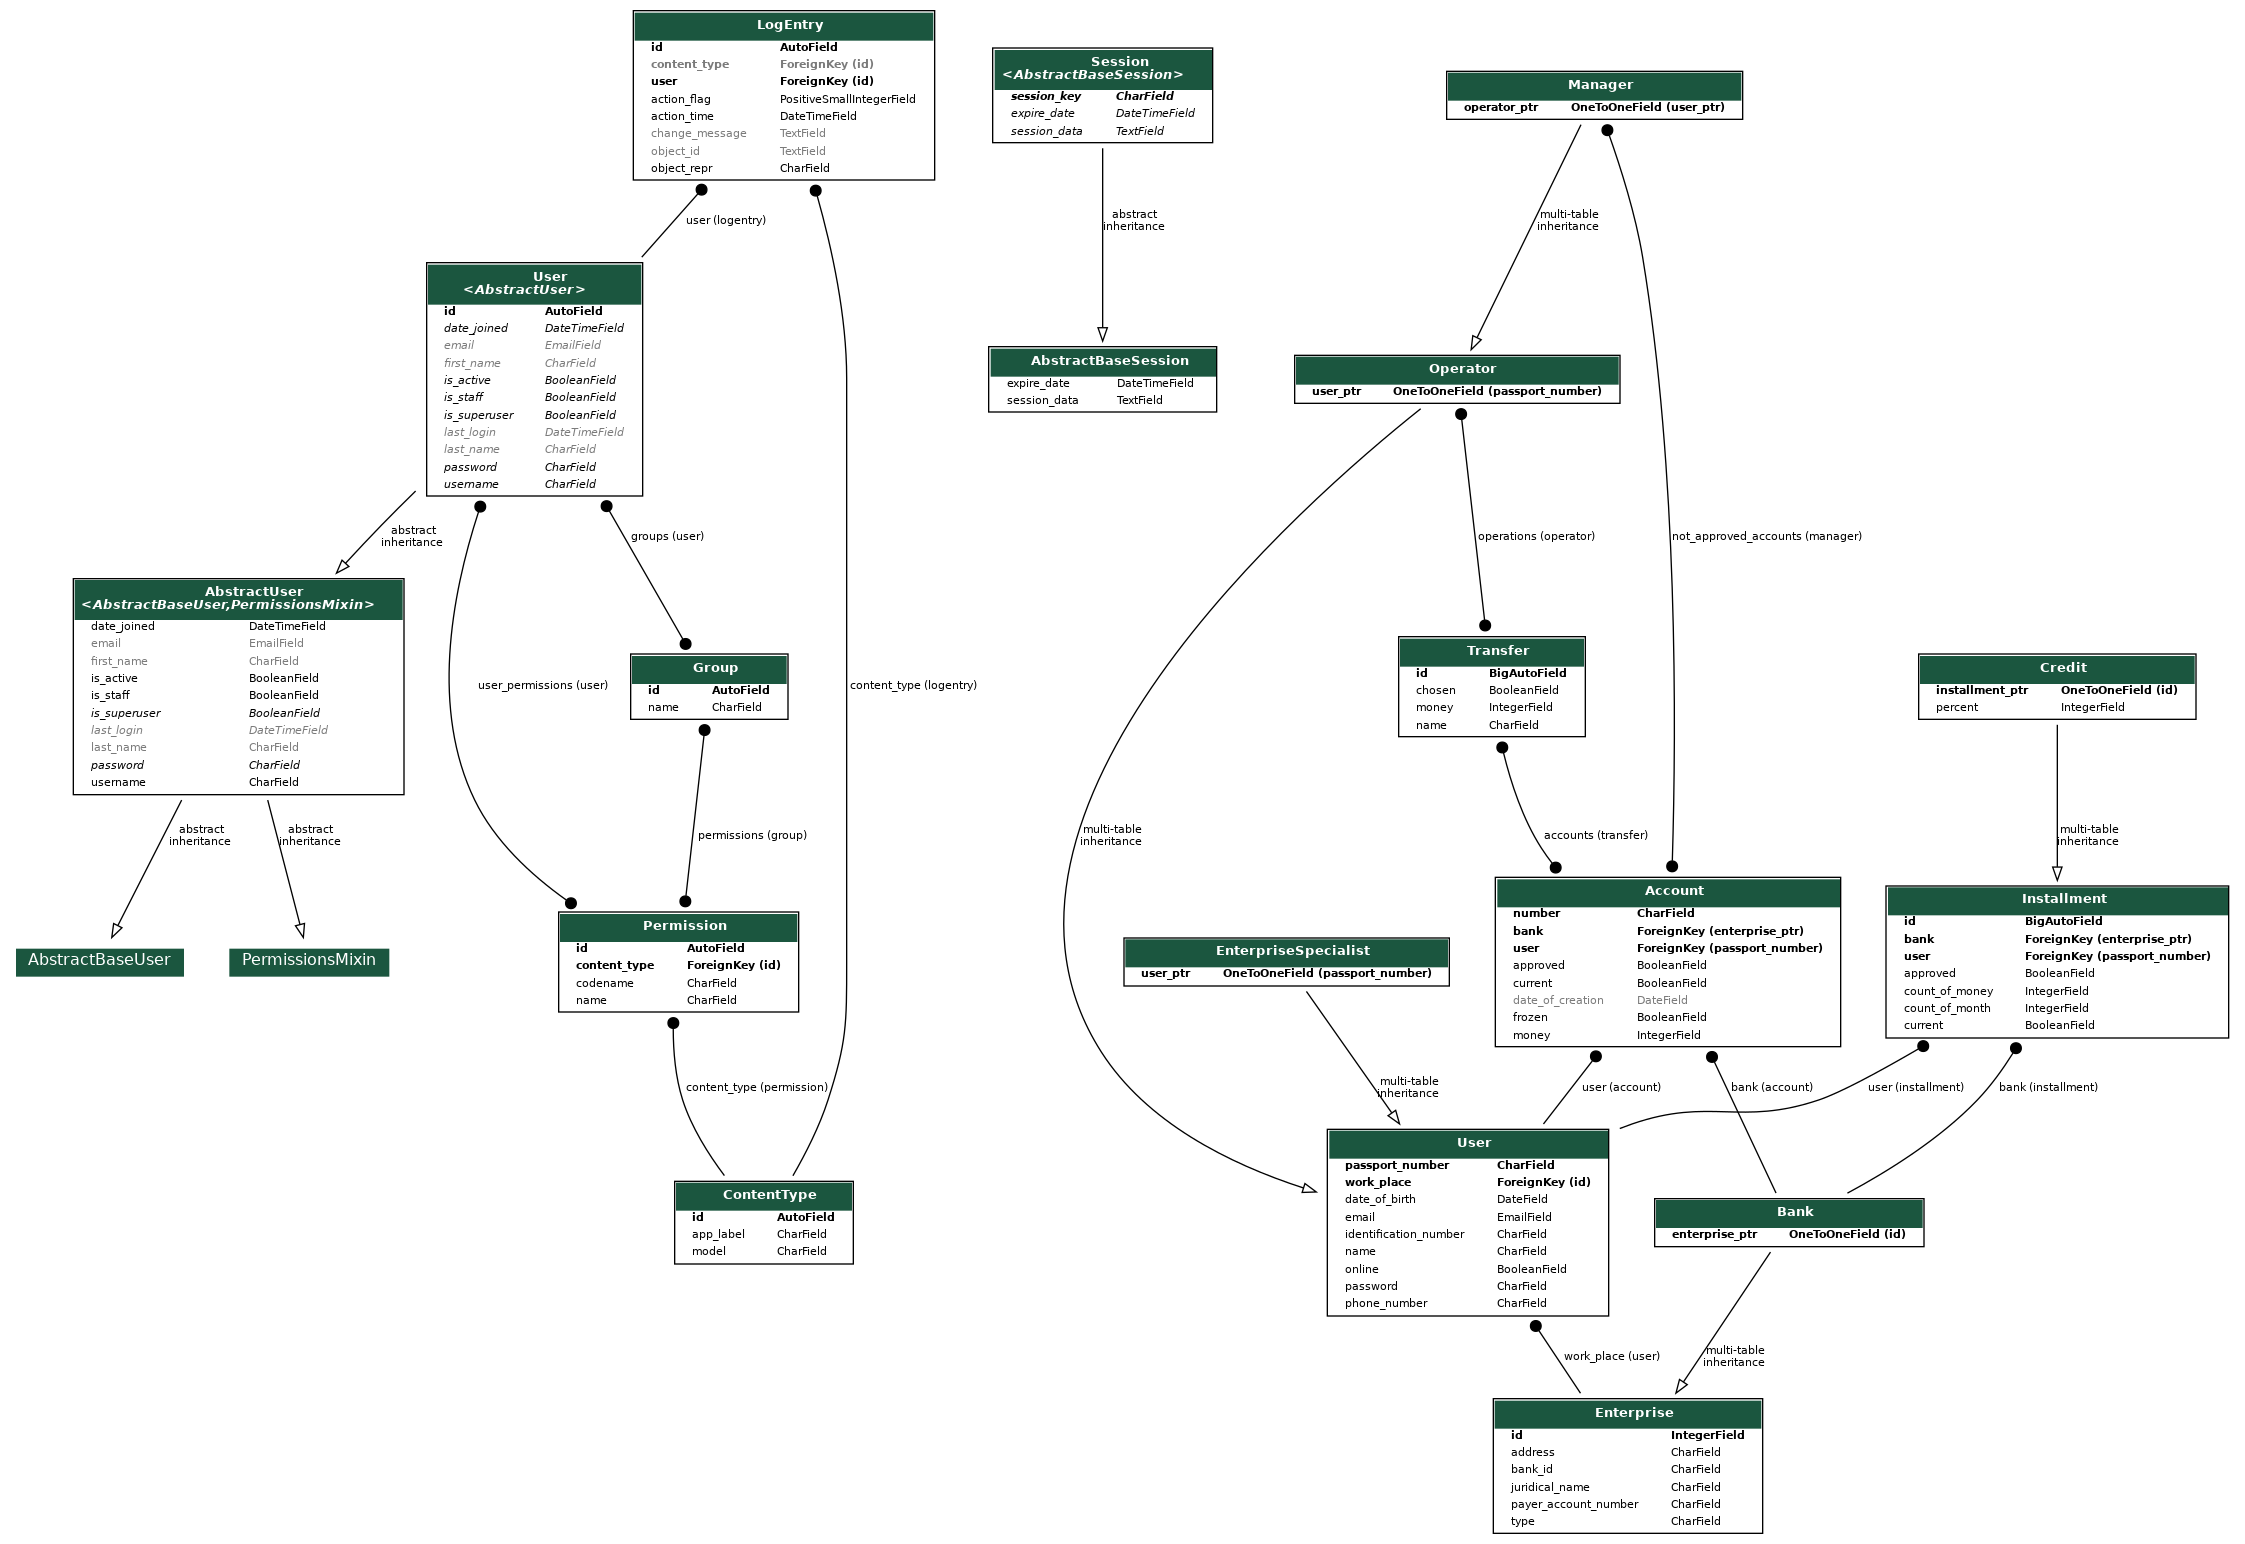
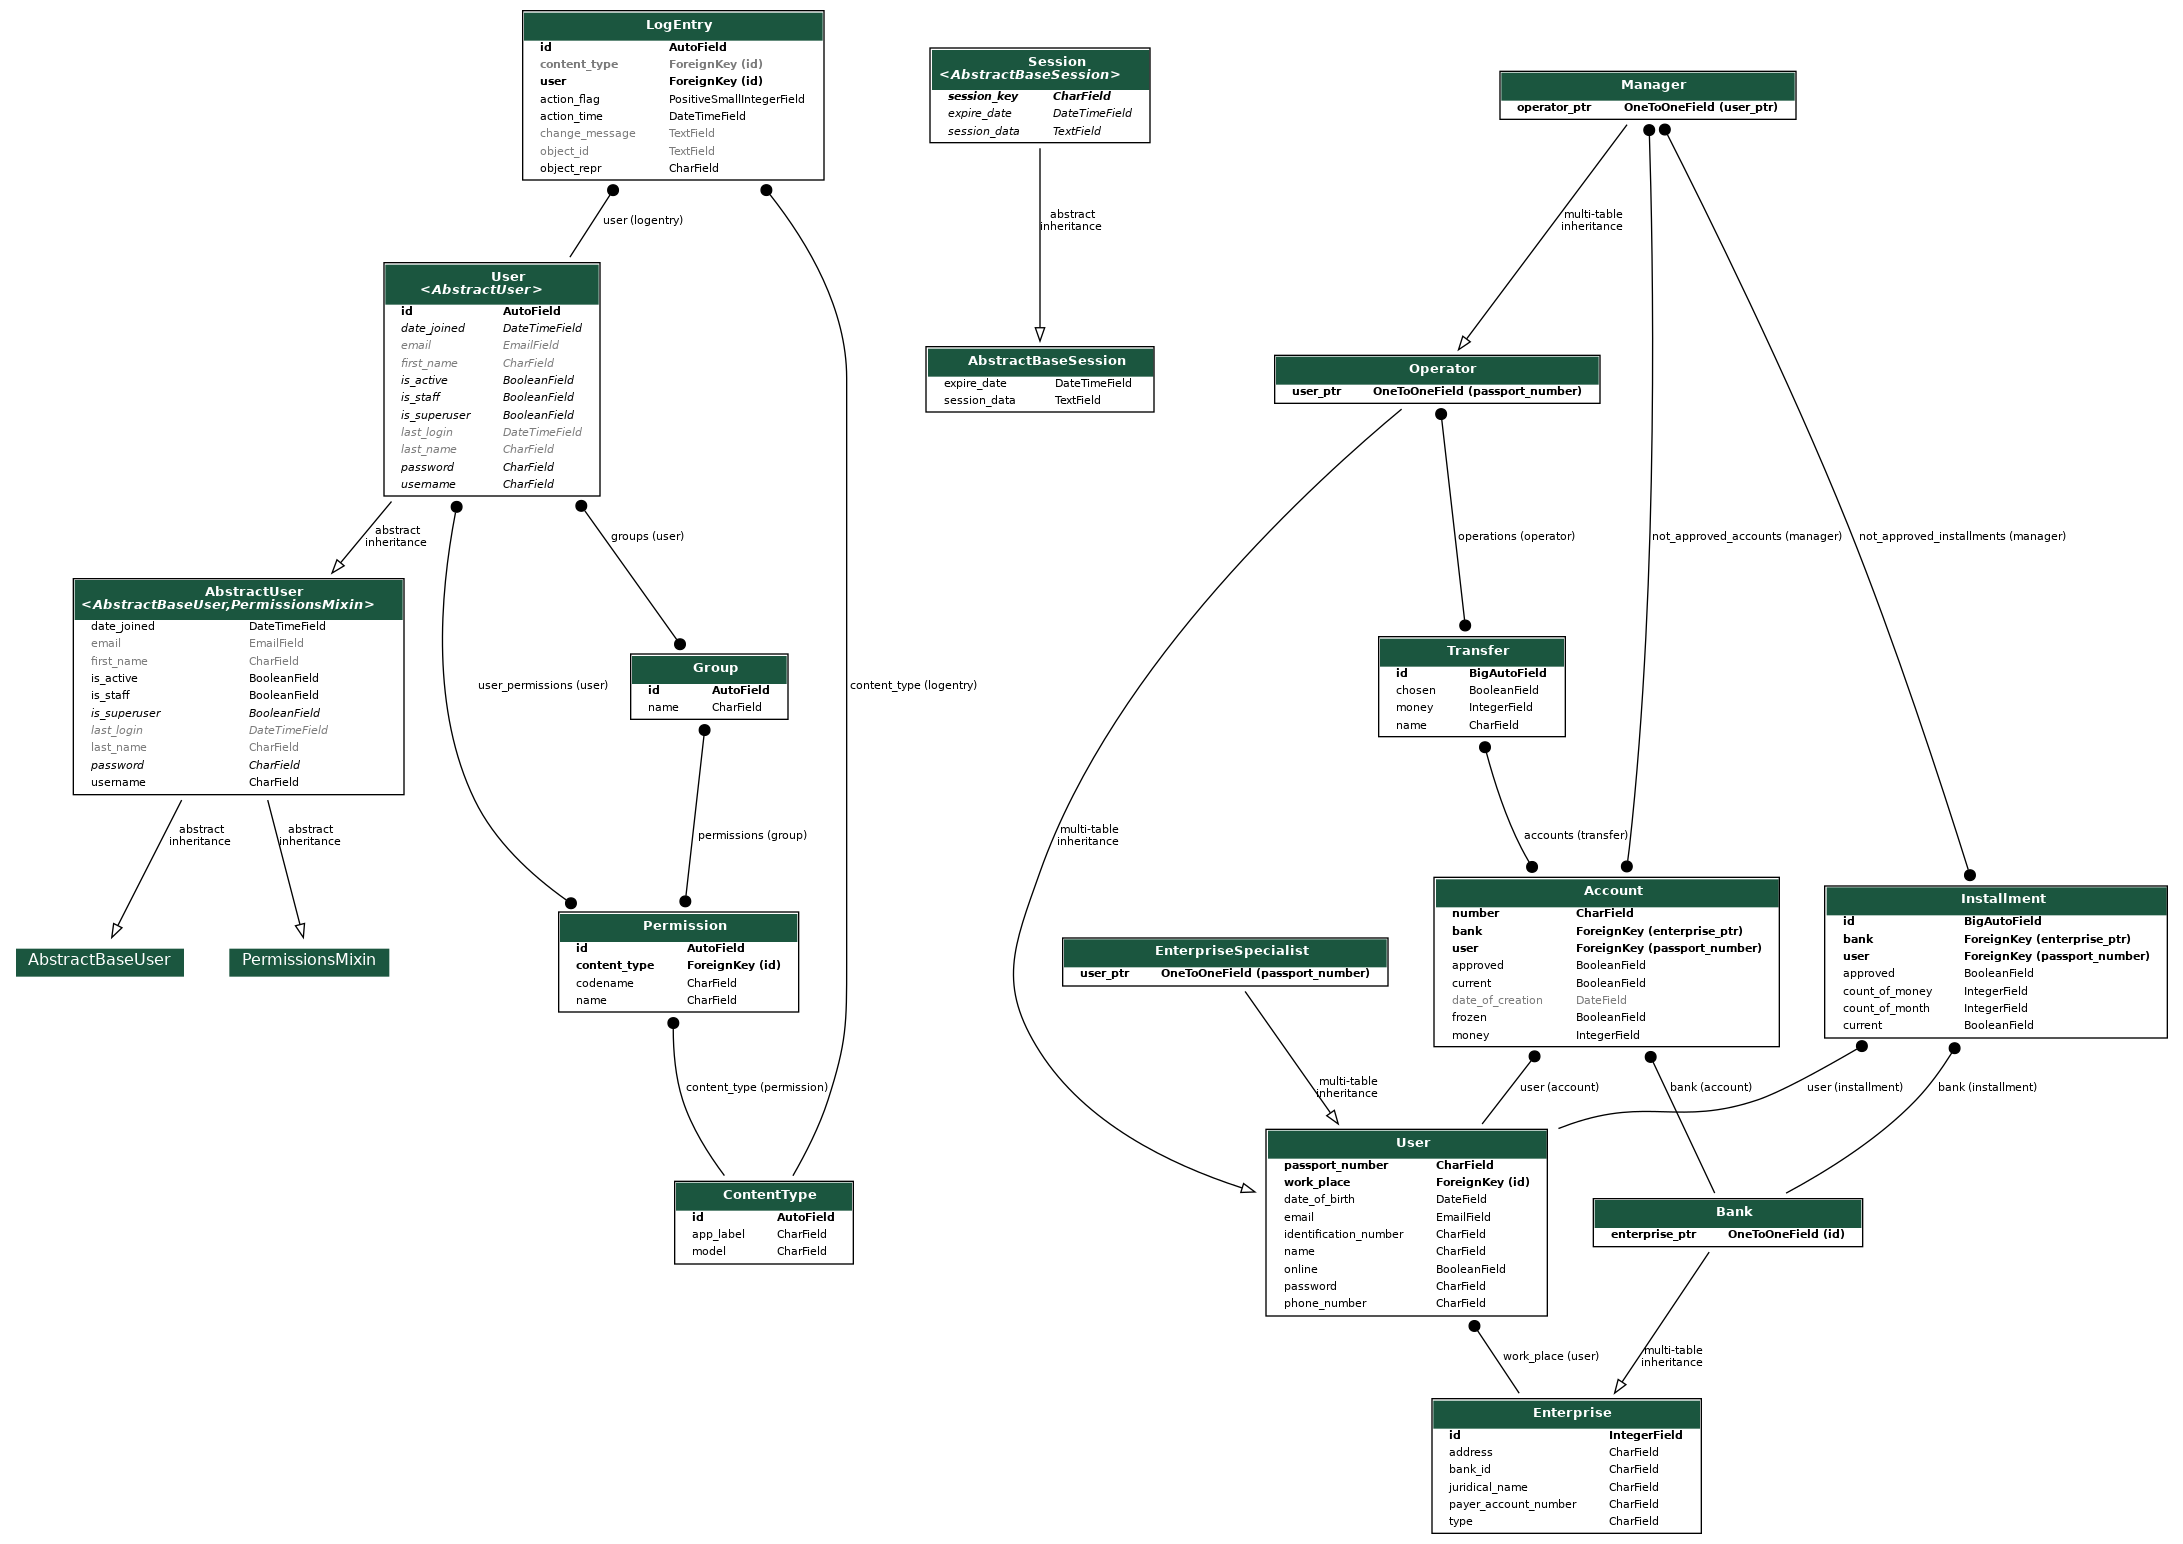
5 commit

diff --git a/bank/main_page/admin.py b/bank/main_page/admin.py
@@ -1,5 +1,5 @@
 from django.contrib import admin
-from .models import Bank, Enterprise, Account, Transfer, Installment, Credit
+from .models import Bank, Enterprise, Account, Transfer, Installment
 
 
 admin.site.register(Bank)
@@ -7,4 +7,3 @@ admin.site.register(Enterprise)
 admin.site.register(Account)
 admin.site.register(Transfer)
 admin.site.register(Installment)
-admin.site.register(Credit)

diff --git a/bank/main_page/views.py b/bank/main_page/views.py
@@ -1,6 +1,6 @@
 from django.shortcuts import render, redirect
 from rest_framework import viewsets
-from .models import User, Bank, Account, Transfer, Credit, Installment
+from .models import User, Bank, Account, Transfer, Installment
 from .forms import BankForm, AccountForm, MoneyForm, InstallmentForm
 from first_page.forms import UserForm
 from django.views import View

diff --git a/bank/main_page/migrations/0016_delete_credit.py b/bank/main_page/migrations/0016_delete_credit.py
@@ -1,0 +1,16 @@
+# Generated by Django 4.0.3 on 2022-04-15 15:07
+
+from django.db import migrations
+
+
+class Migration(migrations.Migration):
+
+    dependencies = [
+        ('main_page', '0015_installment_credit'),
+    ]
+
+    operations = [
+        migrations.DeleteModel(
+            name='Credit',
+        ),
+    ]

diff --git a/bank/main_page/models.py b/bank/main_page/models.py
@@ -44,7 +44,6 @@ class Bank(Enterprise):
         return self.juridical_name
 
 
-
 class Account(models.Model):
     frozen = models.BooleanField(default=False)
     money = models.IntegerField(null=True)
